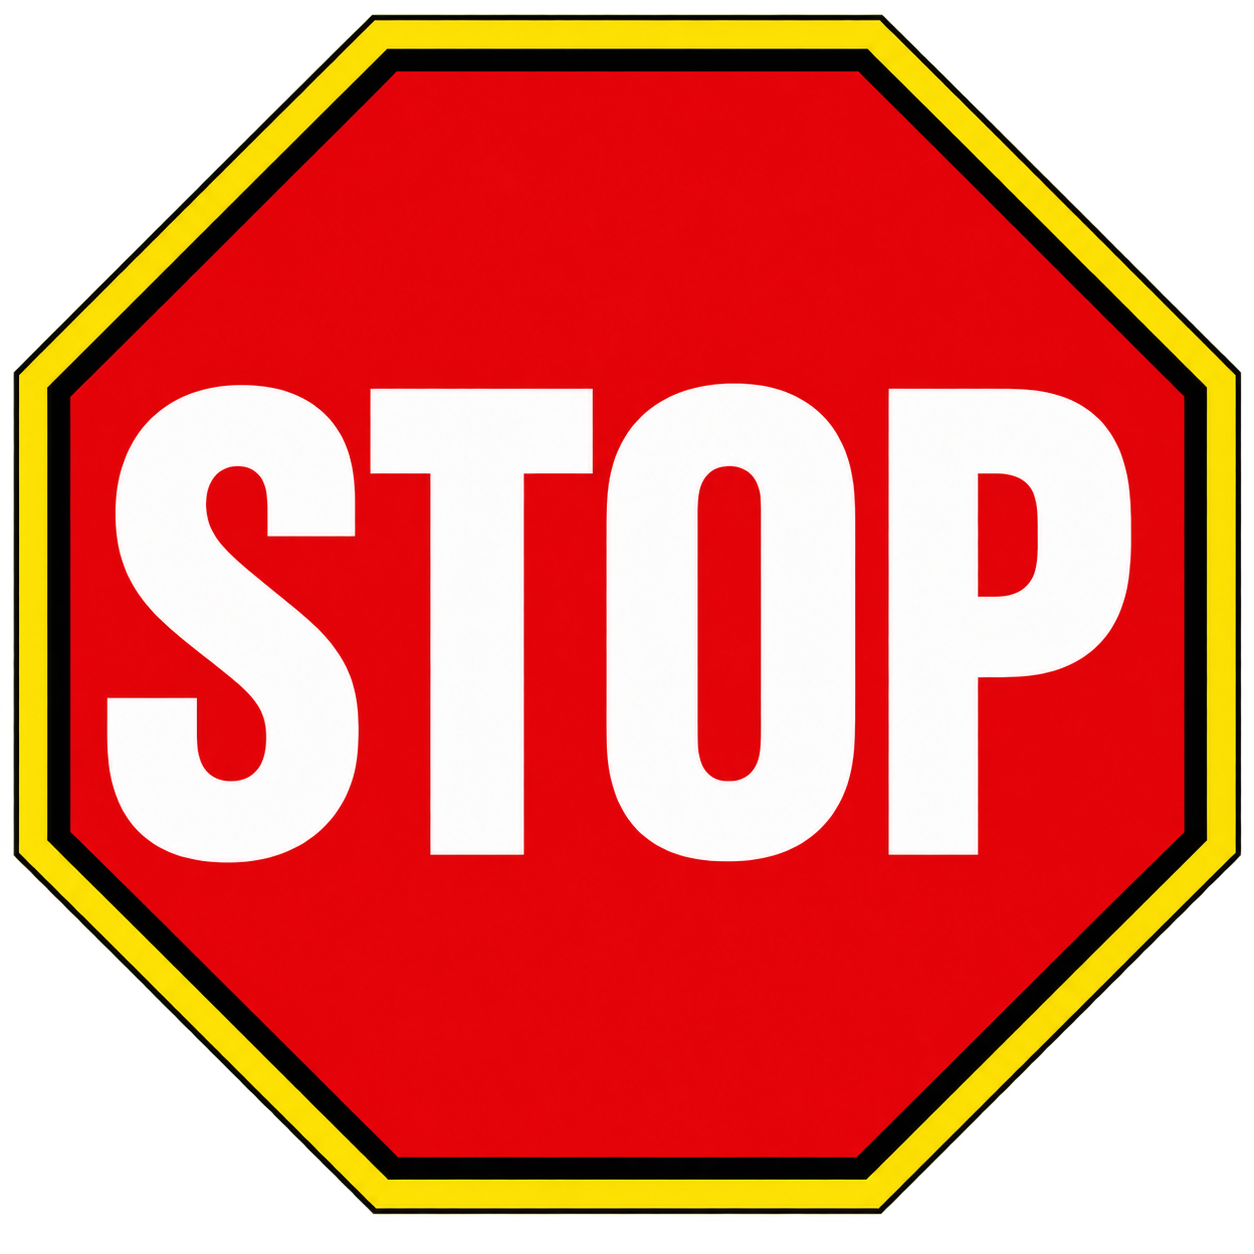
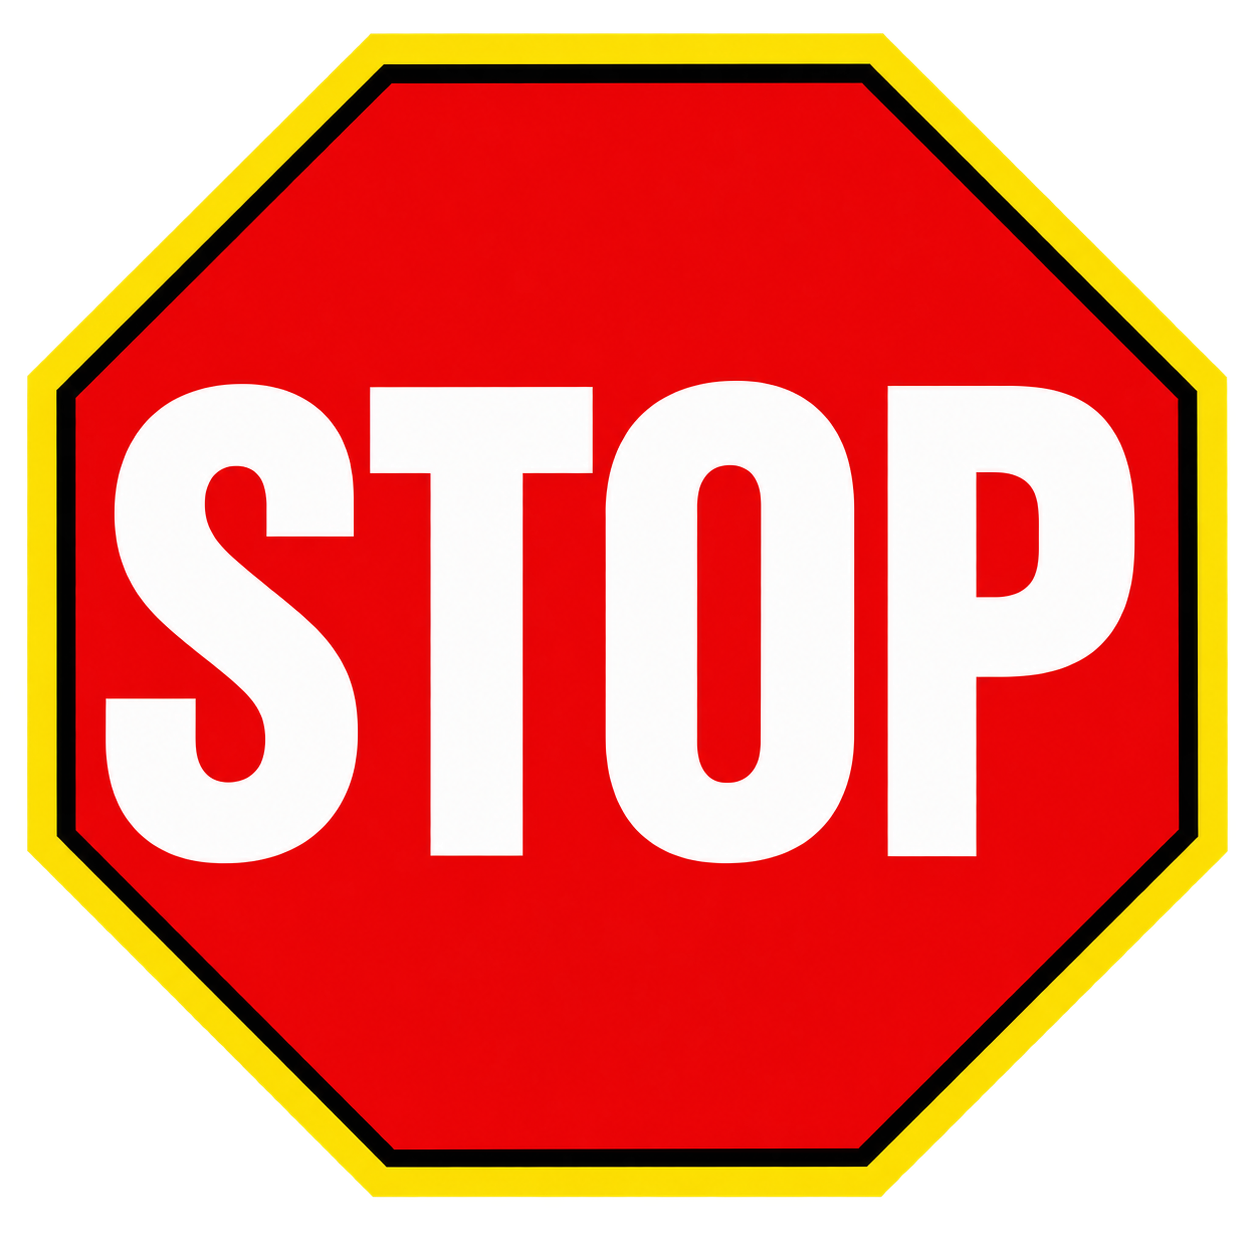
css

diff --git a/interactions/style.css b/interactions/style.css
@@ -562,7 +562,7 @@ body {
 
 .command-shell.pull-position {
   transform:
-    translate(-16vw, 35px);
+    translateX(-16vw);
 }
 
 
@@ -579,20 +579,23 @@ body {
     scale(1.3);
 
   opacity: 1;
+
+  transition:
+    transform 0.9s
+    cubic-bezier(.22,.61,.36,1);
 }
 
 
 .command-shell.pull-position
 .action-button {
-  margin-top: -14px;
+  margin-top: 18px;
 }
 
 
 .command-image.pulled-in
 + .instruction {
-  margin-top: 70px;
+  margin-top: 42px;
 }
-
 
 /* ==================================
    FINAL SCREEN
